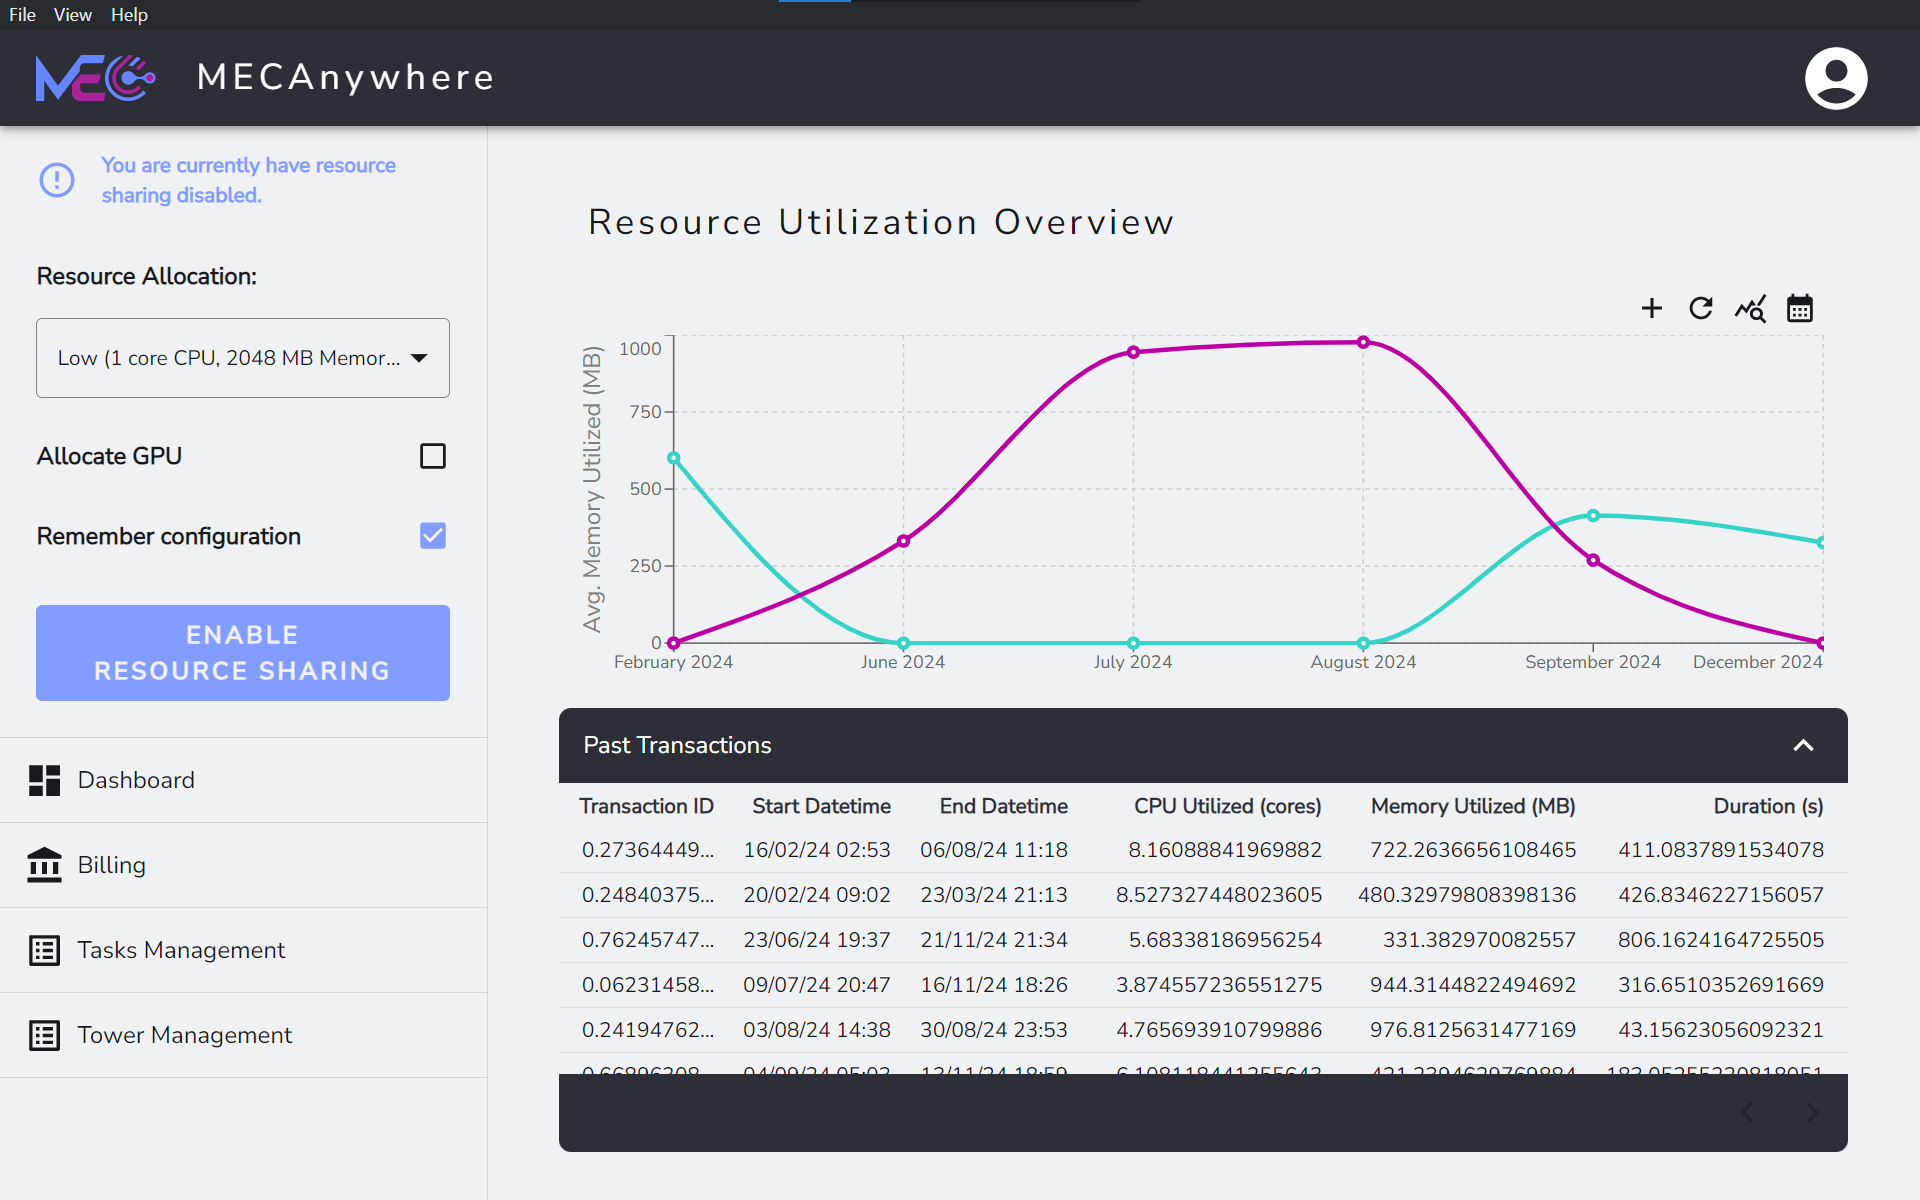
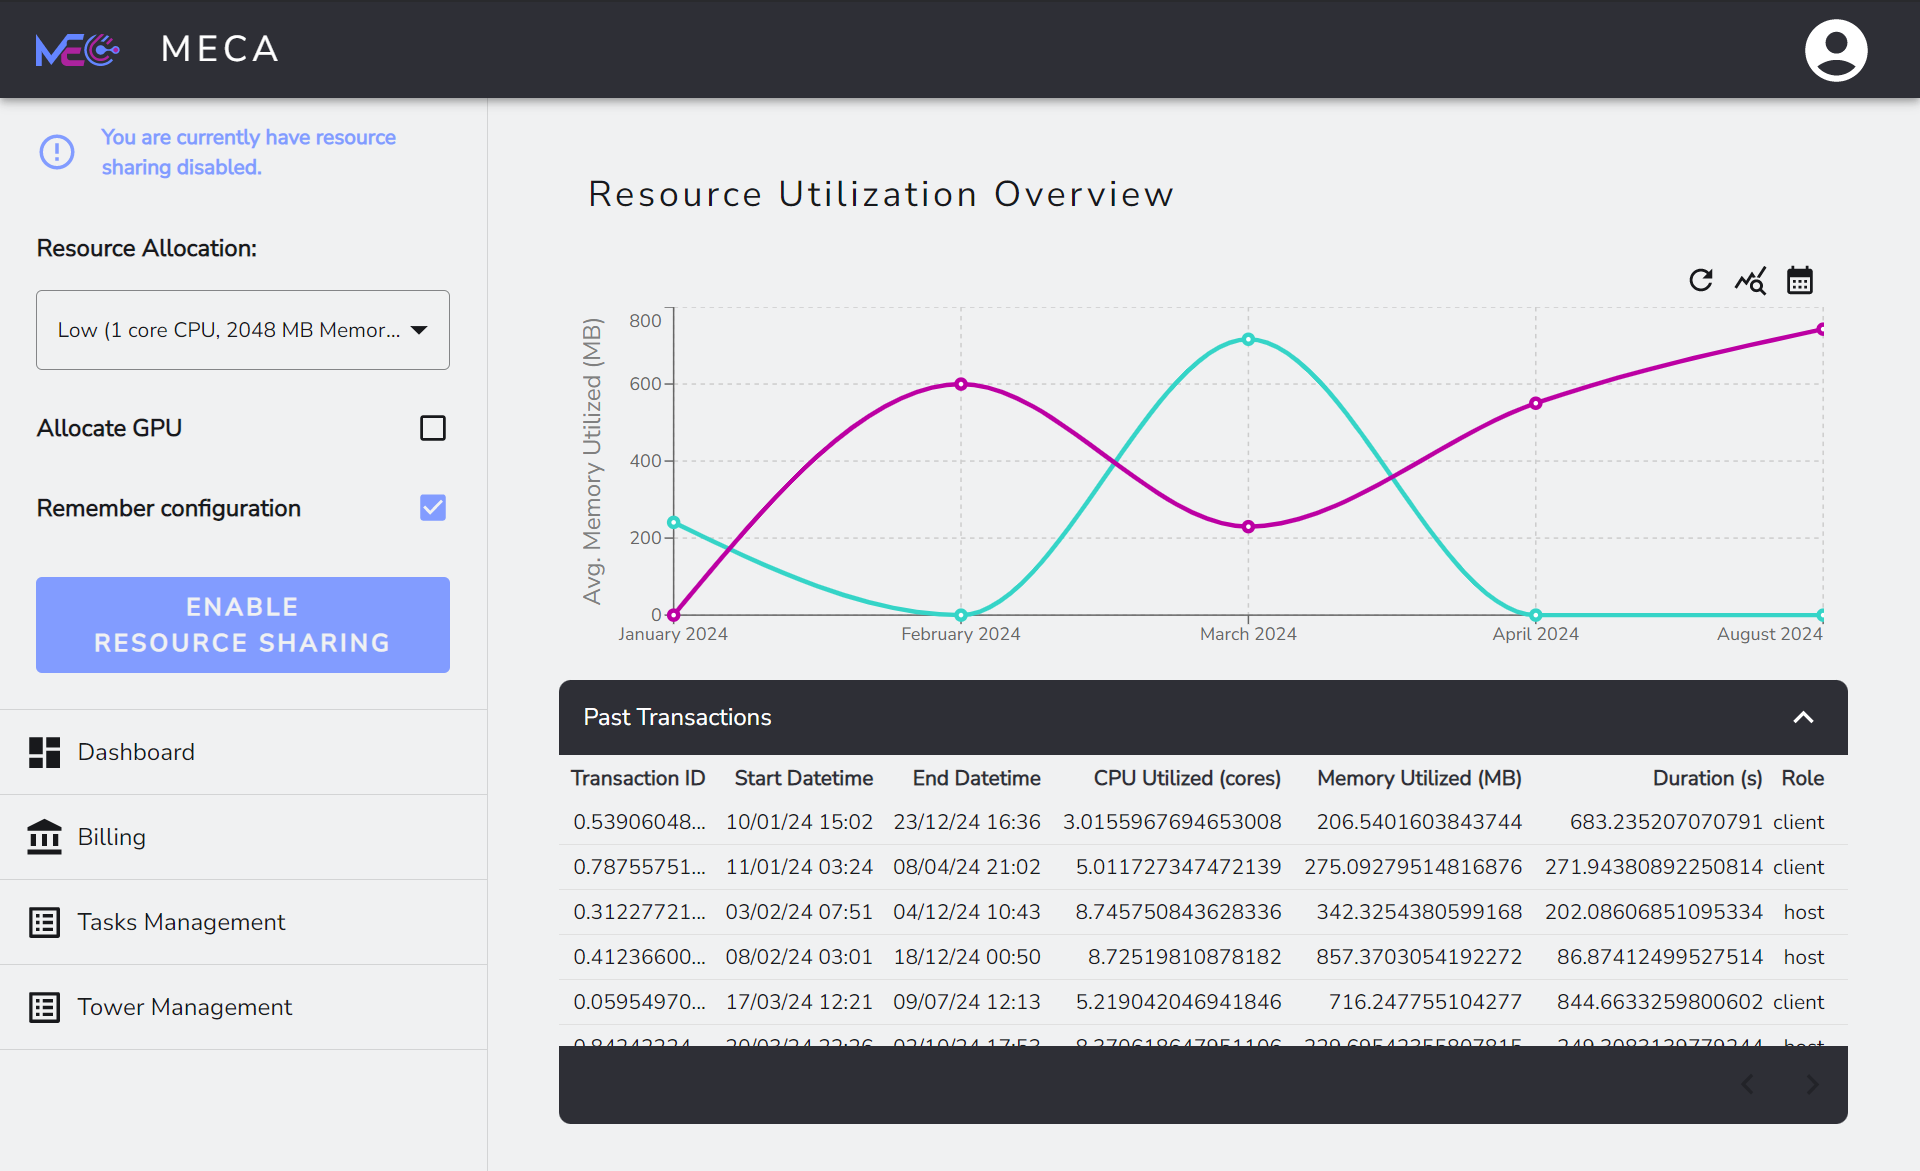
Prod test 2 (#73)
* Add custom dao address to login form

* Change mecanywhere to meca

* Update docs and fix tasklist

* Update .env.pymeca.example

* Update docs links

* Update index.rst

diff --git a/src/main/dockerIntegration.ts b/src/main/dockerIntegration.ts
@@ -7,7 +7,7 @@ import { IpcMainEvent } from 'electron';
 import { ContainerPort, ImageName } from '../common/dockerNames';
 import Channels from '../common/channels';
 import { getIpfsFilesDir } from './ipfsIntegration';
-import { getElectronStore, getElectronStoreFromKey } from './electronStore';
+import { getElectronStoreFromKey } from './electronStore';
 
 const docker = new Dockerode();
 
@@ -31,22 +31,18 @@ const rawPymecaEnvKeys: string[] = [
   'MECA_DEV_PRIVATE_KEY',
   'MECA_USER_PRIVATE_KEY',
   'MECA_TOWER_PRIVATE_KEY',
+  'MECA_DAO_CONTRACT_ADDRESS',
 ];
 
 // get the env details
 export const getPymecaEnv = (): string[] => {
-  const pymecaEnv: string[] = [];
-
-  for (const key of rawPymecaEnvKeys) {
+  return Object(rawPymecaEnvKeys).map((key: string) => {
     const value = getElectronStoreFromKey(key);
-    if (value !== null && value !== undefined) {
-      pymecaEnv.push(`${key}=${value}`)
-    } else {
-      pymecaEnv.push(`${key}=`)
+    if (value === null || value === undefined) {
+      return `${key}=`;
     }
-  }
-
-  return pymecaEnv;
+    return `${key}=${value}`;
+  });
 }
 
 export const removeDockerContainer = async (

diff --git a/src/renderer/components/componentsCommon/FormSchema.tsx b/src/renderer/components/componentsCommon/FormSchema.tsx
@@ -29,6 +29,7 @@ export const InitialLoginFormValues: LoginFormValues = {
   MECA_DEV_PRIVATE_KEY: process.env.MECA_DEV_PRIVATE_KEY || '',
   MECA_USER_PRIVATE_KEY: process.env.MECA_USER_PRIVATE_KEY || '',
   MECA_TOWER_PRIVATE_KEY: process.env.MECA_TOWER_PRIVATE_KEY || '',
+  MECA_DAO_CONTRACT_ADDRESS: process.env.MECA_DAO_CONTRACT_ADDRESS || '',
 };
 
 export interface LoginFormValues {
@@ -39,6 +40,7 @@ export interface LoginFormValues {
   IPFS_NODE_URL: string;
   MECA_BLOCKCHAIN_RPC_URL: string;
   MECA_TASK_EXECUTOR_URL: string;
+  MECA_DAO_CONTRACT_ADDRESS: string;
   // host
   MECA_IPFS_HOST: string;
   MECA_IPFS_PORT: number;
@@ -76,6 +78,7 @@ export const LoginFormSchema = Yup.object({
   MECA_TASK_EXECUTOR_URL: Yup.string()
     .required('Task executor URL required!')
     .default('http://meca-executor-1:2591'),
+  MECA_DAO_CONTRACT_ADDRESS: Yup.string(),
   // host
   MECA_IPFS_HOST: Yup.string()
     .required('IPFS host required!')

diff --git a/src/renderer/components/tasks/TasksManagement.tsx b/src/renderer/components/tasks/TasksManagement.tsx
@@ -11,7 +11,7 @@ import {
 import RefreshIcon from '@mui/icons-material/Refresh';
 import { ComputingType, Task } from 'renderer/utils/dataTypes';
 import { getTaskListFromContract } from 'renderer/services/TaskContractService';
-import { cid_from_sha256 } from 'renderer/services/PymecaService';
+import { cid_from_sha256, initActor } from 'renderer/services/PymecaService';
 import { retrieveIPFSFolderMetadata } from 'renderer/services/IPFSService';
 import TaskCard from './TaskCard';
 import SortWidget from './SortWidget';
@@ -49,6 +49,7 @@ const TasksManagement: React.FC = () => {
   const indexOfFirstTask = indexOfLastTask - tasksPerPage;
 
   const handleRefresh = () => {
+    initActor('host');
     getTaskListFromContract()
       .then(async (rawTasks) => {
         if (!rawTasks || rawTasks.length === 0) {

diff --git a/src/renderer/components/auth/Login.tsx b/src/renderer/components/auth/Login.tsx
@@ -22,9 +22,16 @@ import {
   LoginFormSchema,
   LoginFormValues,
 } from '../componentsCommon/FormSchema';
+import ErrorDialog from '../componentsCommon/ErrorDialogue';
 
 const Login = () => {
   const [isLoading, setIsLoading] = useState(false);
+  const [errorMessage, setErrorMessage] = useState('');
+  const [errorDialogOpen, setErrorDialogOpen] = useState(false);
+
+  const handleCloseErrorDialog = () => {
+    setErrorDialogOpen(false);
+  };
 
   async function setup() {
     try {
@@ -85,6 +92,11 @@ const Login = () => {
 
   return (
     <Transitions duration={2}>
+      <ErrorDialog
+        open={errorDialogOpen}
+        onClose={handleCloseErrorDialog}
+        errorMessage={errorMessage}
+      />
       {isLoading ? (
         <CircularProgress
           size={36}

diff --git a/src/renderer/components/auth/handleEnterApp.tsx b/src/renderer/components/auth/handleEnterApp.tsx
@@ -1,5 +1,6 @@
 import { getAccount } from 'renderer/services/PymecaService';
 import { ImageName } from 'common/dockerNames';
+import { initialTaskList } from 'renderer/redux/reducers';
 import { getPublicKey } from '../../utils/cryptoUtils';
 import actions from '../../redux/actionCreators';
 
@@ -18,6 +19,7 @@ const setStoreSettings = async () => {
         gpus: 0,
       })
     );
+    window.electron.store.set('taskList', JSON.stringify(initialTaskList));
   } catch (keyPairGenerationError) {
     throw keyPairGenerationError;
   }

diff --git a/src/renderer/redux/reducers.tsx b/src/renderer/redux/reducers.tsx
@@ -47,7 +47,7 @@ const initialDataEntry: DataEntry = {
   transaction_id: '',
 };
 
-const initialTaskList: TaskList = {
+export const initialTaskList: TaskList = {
   built: [],
   tested: [],
   activated: [],

diff --git a/docs/source/index.rst b/docs/source/index.rst
@@ -20,3 +20,16 @@ The guides here help you use MECA Desktop. You can also contribute to the projec
 
    pages/developers/developer_guide
    pages/developers/task_executor
+
+.. toctree::
+   :maxdepth: 1
+   :caption: Links
+
+   Pymeca github <https://github.com/sbip-sg/pymeca>
+   Meca github <https://github.com/sbip-sg/meca>
+   Meca Desktop github <https://github.com/sbip-sg/meca_desktop>
+   Pymeca documentation <https://sbip-sg.github.io/pymeca/>
+   Meca documentation <https://sbip-sg.github.io/meca/index.html>
+   Meca Desktop documentation <https://sbip-sg.github.io/meca_desktop/index.html>
+   Youtube <https://www.youtube.com/watch?v=MDzbEvTyIgQ>
+   Technical guide video <https://drive.google.com/file/d/1mgZ0EfhlHWNPjgXgG-MpgPV32_b0Qx_g/view?usp=sharing>
